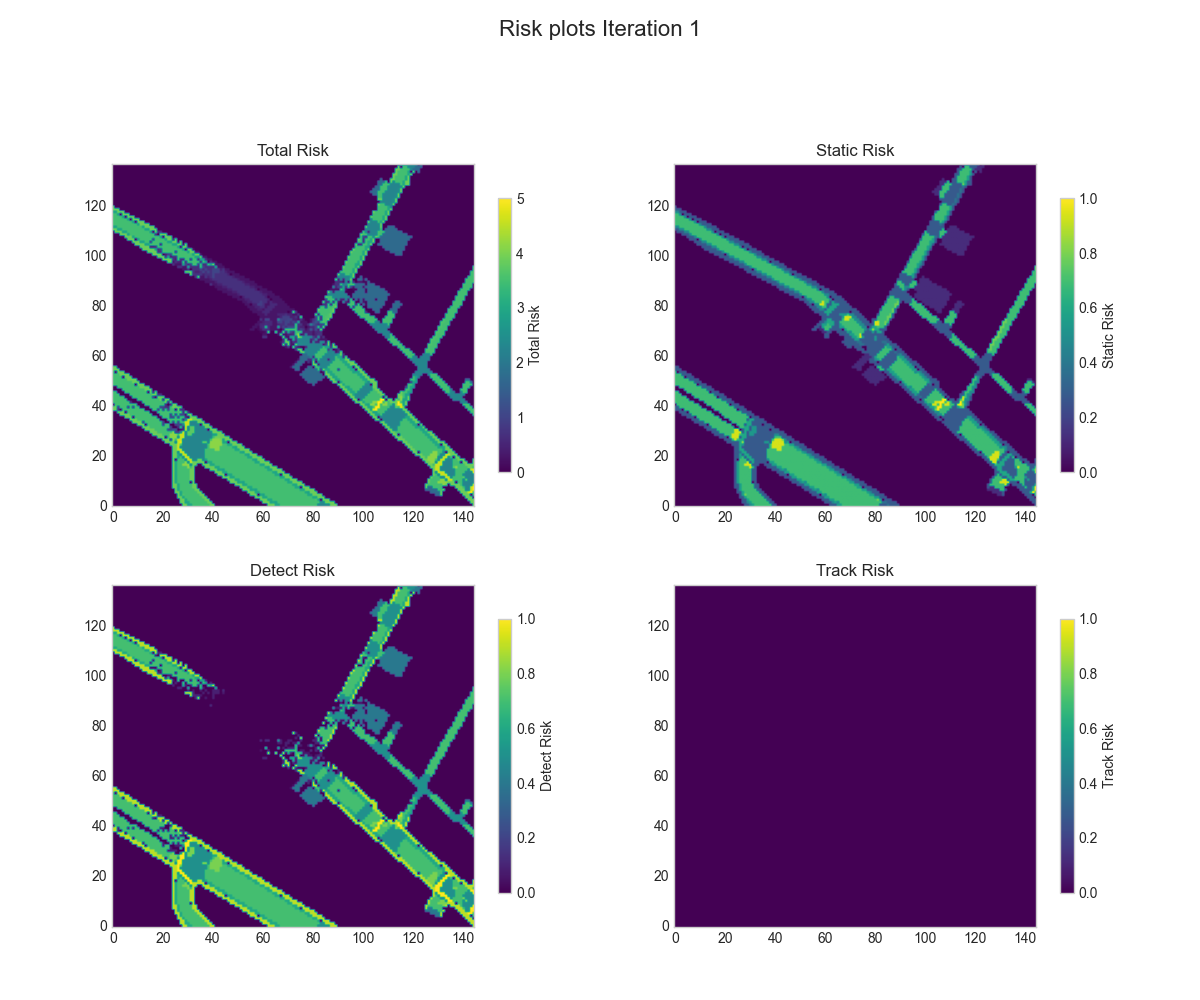
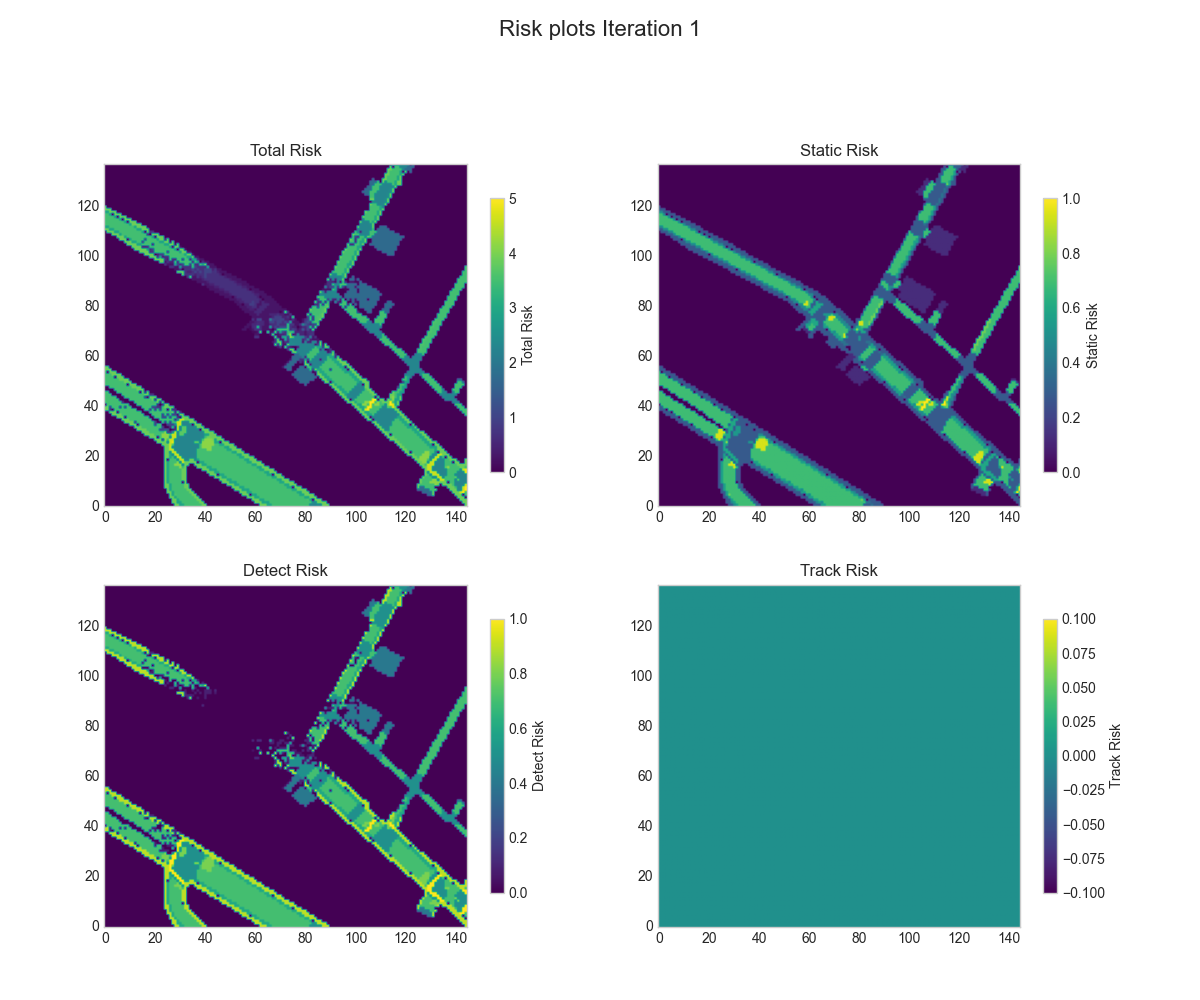
verbeterde codes

diff --git a/Scripts/Power.py b/Scripts/Power.py
@@ -5,13 +5,13 @@ from scipy.optimize import minimize
 #lidar_parameters:
 erx = 0.9 # receiver optics effeciency
 etx = 0.9 # emmitter optics effeciency
-n = 1 #target reflectivity
+n = 0.1 #target reflectivity
 D = 25*pow(10,-3) #diameter lens 25 mm
 Aovx = 1/np.pi #1 graden in radialen
 Aovy = 1/np.pi #1 graden in radialen
-phi_amb = 13.27 #W/m^2 gekozen via tabel want test wast delta labda = 50 nm
+phi_amb = 37.72 #W/m^2 gekozen via tabel want test wast delta labda = 50 nm
 Nshots = 1
-Ro = 0.9 #We kiezen een ADP lidar met een golflengte van 1550 nm
+Ro = 0.9 #We kiezen een ADP lidar met een golflengte van 903 nm
 M = 30
 F = 7
 Bn = 1* 10**6 #Bandwidth 1 MHz
@@ -59,7 +59,7 @@ class power:
         p_intial = np.zeros(self.n_cones)
         for cone, cone_cells in cones.items():
             p_intial[cone] = total_risk_per_cone[cone]*self.p_max/total_risk
-        power_bound = [(0.25*self.p_max,self.p_max)]*self.n_cones
+        power_bound = [(6,self.p_max)]*self.n_cones
         constraints = {"type": "eq", "fun": self.power_sum_constraint}
         result = minimize(lambda power: self.cost(power, cones), p_intial, bounds=power_bound, constraints=constraints)
         self.p_optimal = result.x

diff --git a/Scripts/Object.py b/Scripts/Object.py
@@ -76,12 +76,16 @@ class Object:
             if self.constant_power == True:
                 info = self.nusc.get('sample', self._sample)
                 anns = info['anns']
-            else: anns = object_list_new
+            else: 
+                anns = object_list_new
+                print(anns)
+
             if prnt:
                 print(f'amount of object within the sample = {len(anns)}')
             
-            for i in tqdm(range(len(anns)), desc='Tracking Objects'):
+            for i in range(len(anns)):
                 ans = anns[i]
+                print(ans)
                 info = self.nusc.get('sample_annotation', ans)
                 rot = np.arctan2((2*(info['rotation'][0]*info['rotation'][3]+info['rotation'][1]*info['rotation'][2])),(1-2*(info['rotation'][3]**2+info['rotation'][2]**2)))
                 voor = self.voorspelling(info['instance_token'])

diff --git a/Scripts/Object_filter.py b/Scripts/Object_filter.py
@@ -39,6 +39,14 @@ class object_filter:
                     if on_box == True:
                         self.object_scanned.append(ans)
                         break
+            for i in range(len(object_list)):
+                an = object_list[i]
+                data = self.nusc.get('sample_annotation', an)
+                if an in self.object_scanned:
+                    self.object_scanned = self.object_scanned
+                else:
+                    if data['num_radar_pts'] != 0:
+                        self.object_scanned.append(data['token'])
             self.oud = sample
 
 
